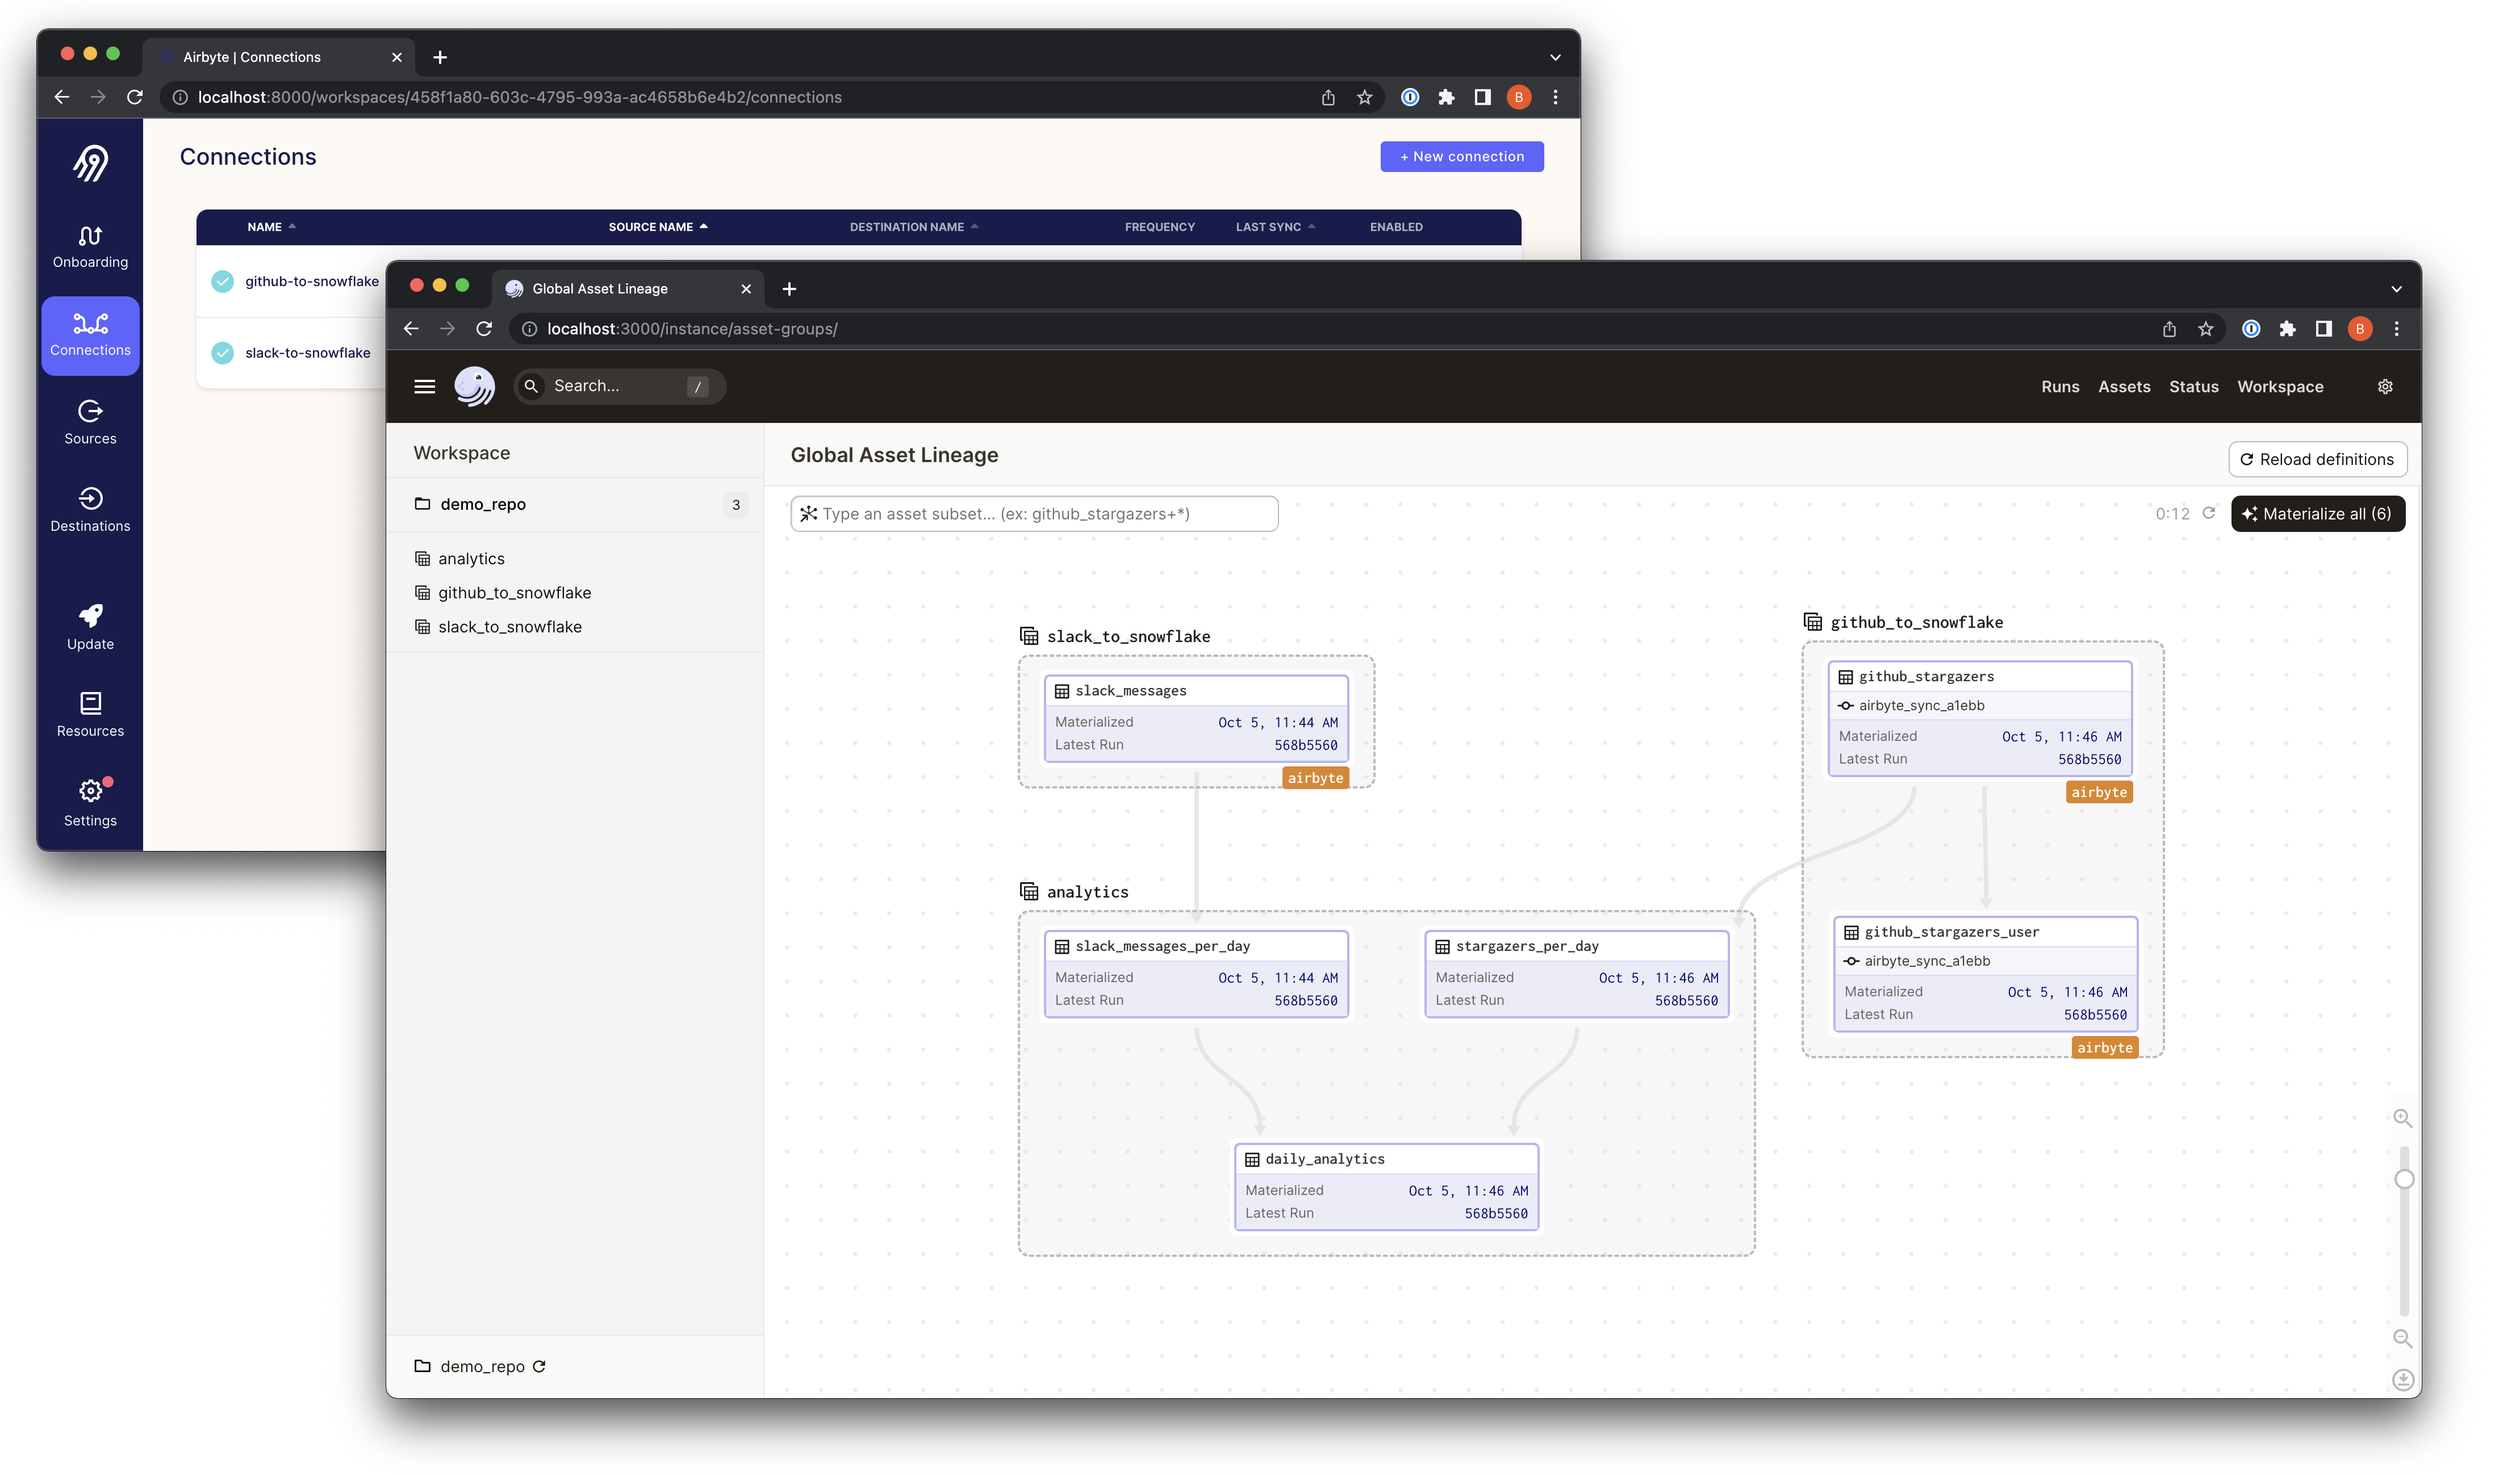
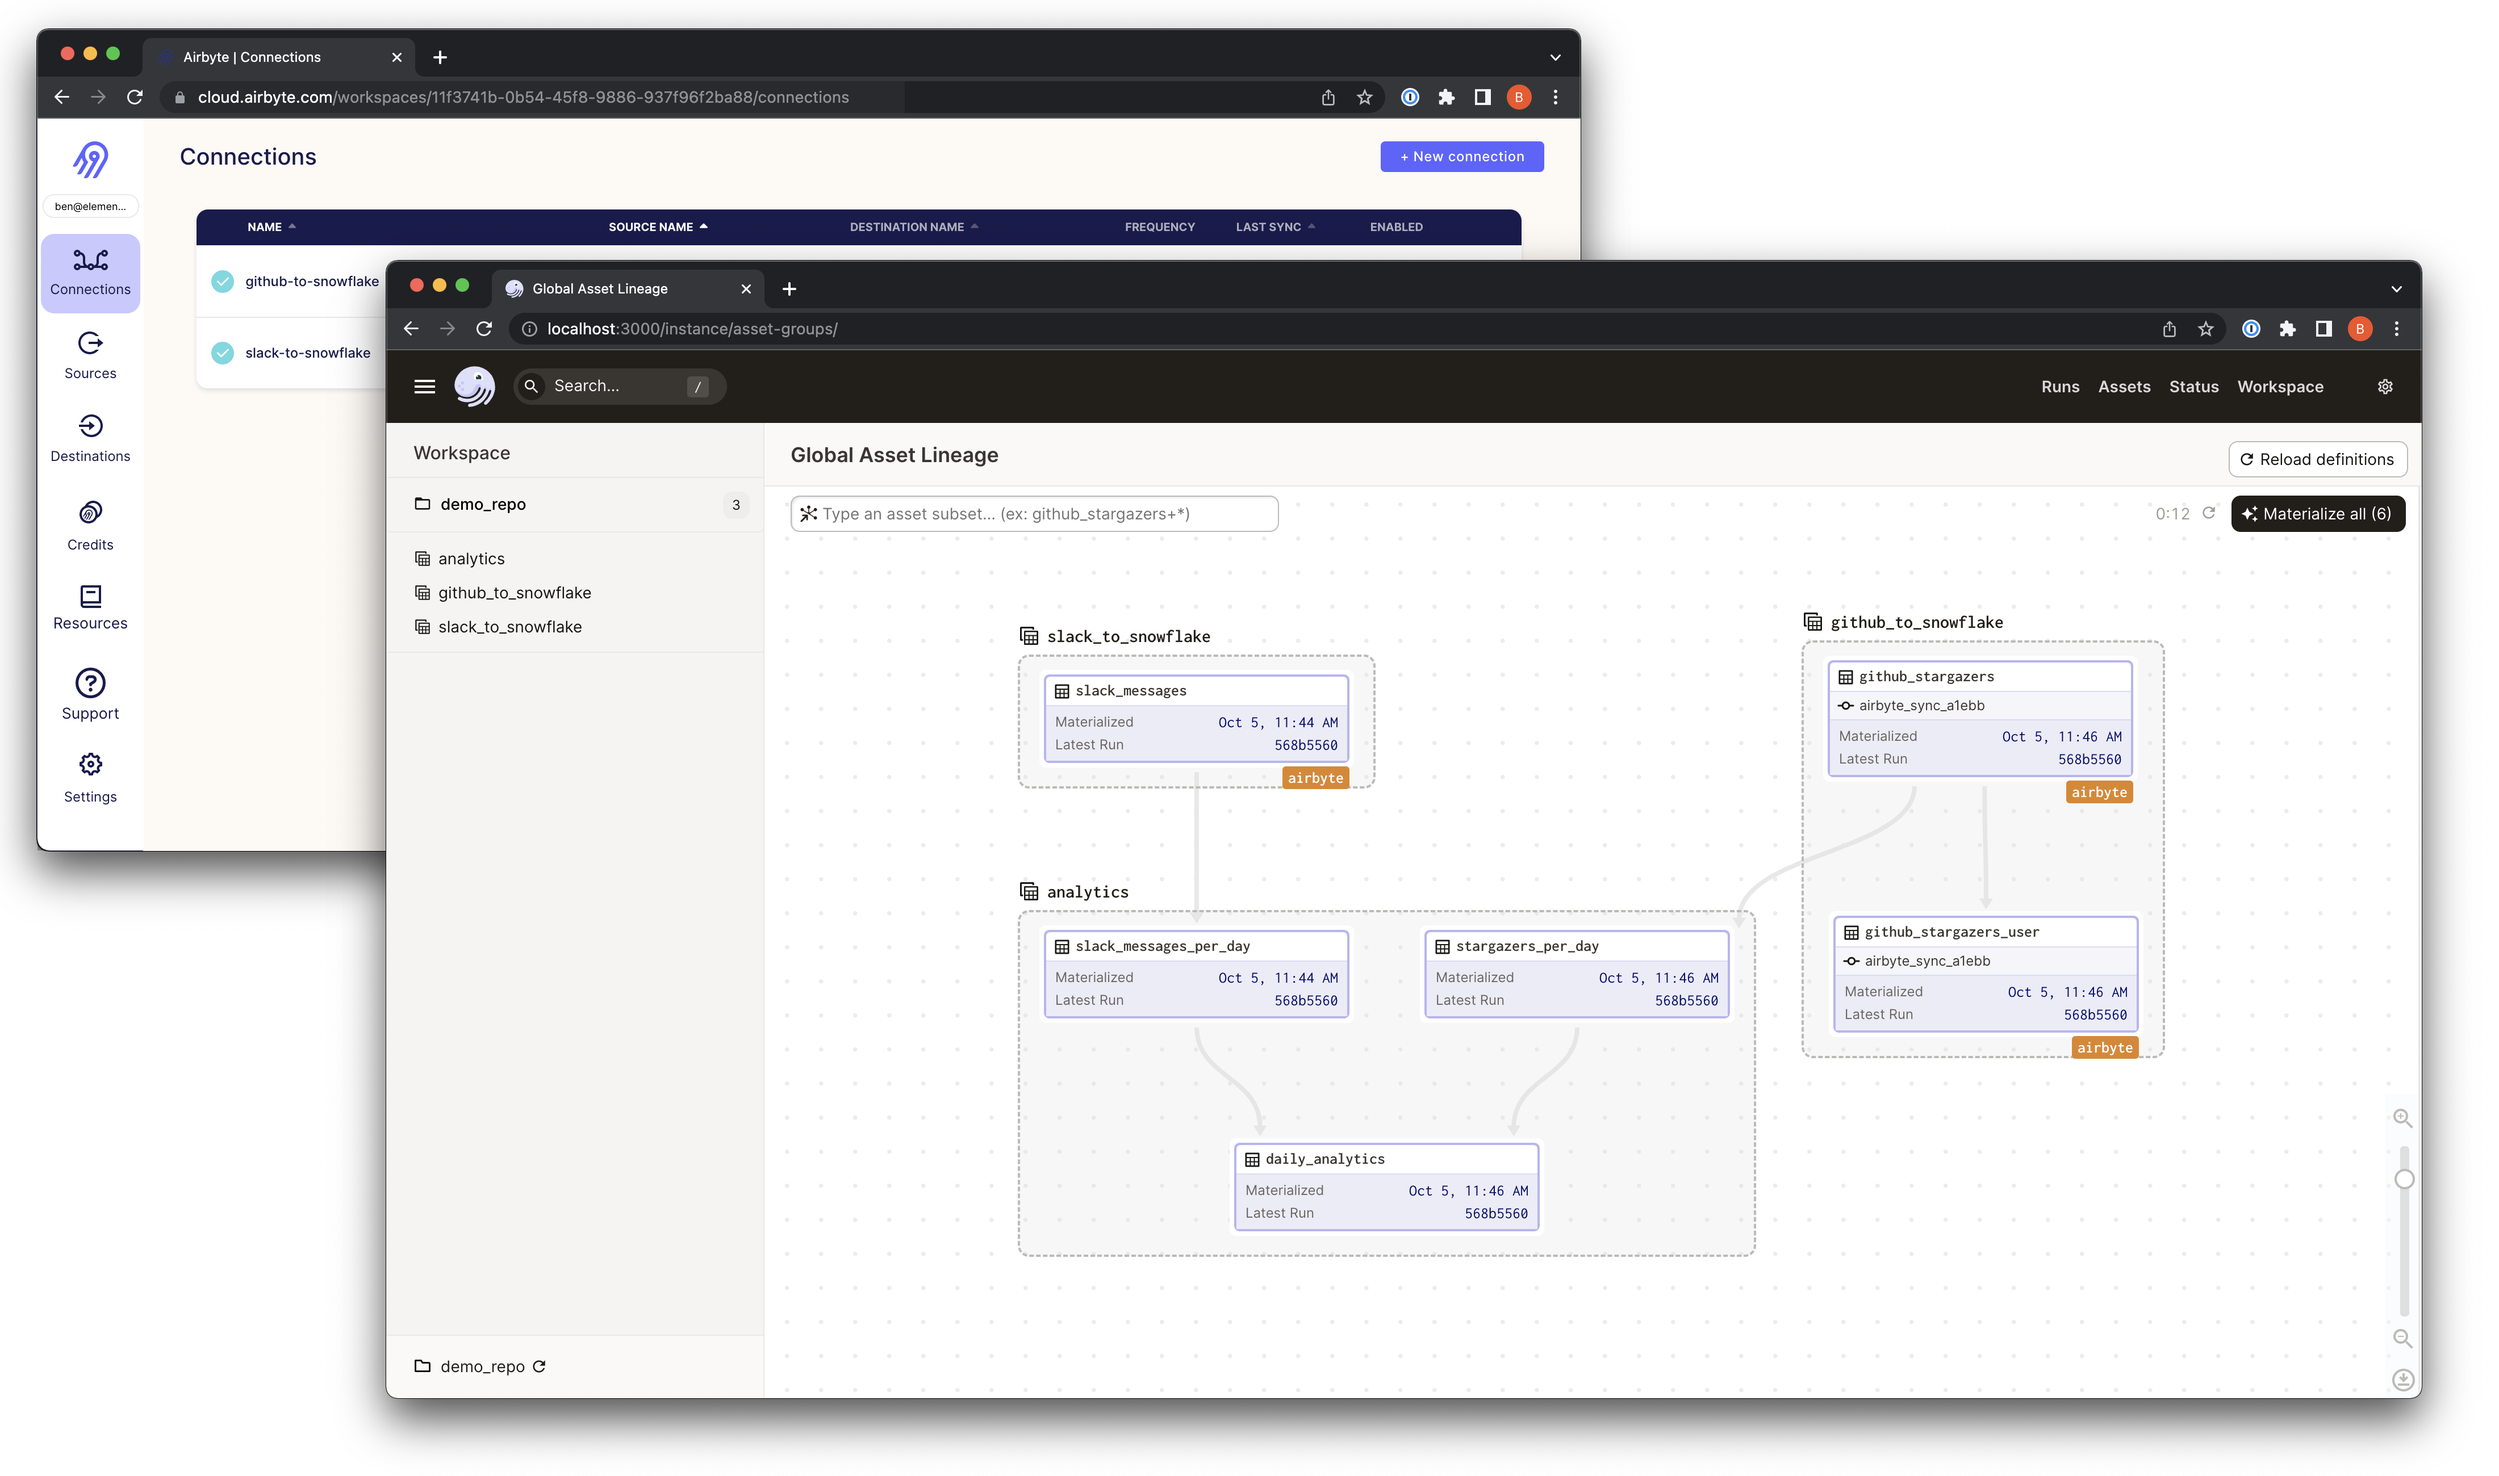
[docs][dagster-airbyte] Add guide for Airbyte Cloud integration

Changed region(s): [[0.0, 0.0623, 0.0623, 0.5919], [0.0934, 0.0623, 0.3425, 0.0935]]

diff --git a/examples/docs_snippets/docs_snippets/integrations/airbyte/airbyte.py b/examples/docs_snippets/docs_snippets/integrations/airbyte/airbyte.py
@@ -16,6 +16,17 @@ def scope_define_instance():
     # end_define_instance
 
 
+def scope_define_cloud_instance() -> None:
+    # start_define_cloud_instance
+    from dagster import EnvVar
+    from dagster_airbyte import AirbyteCloudResource
+
+    airbyte_instance = AirbyteCloudResource(
+        api_key=EnvVar("AIRBYTE_API_KEY"),
+    )
+    # end_define_cloud_instance
+
+
 def scope_load_assets_from_airbyte_project():
     # start_load_assets_from_airbyte_project
     from dagster_airbyte import load_assets_from_airbyte_project
